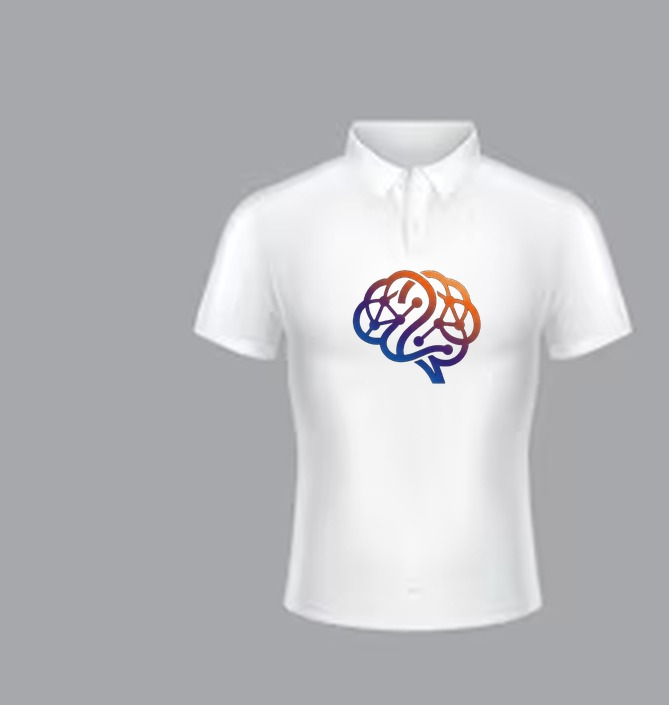
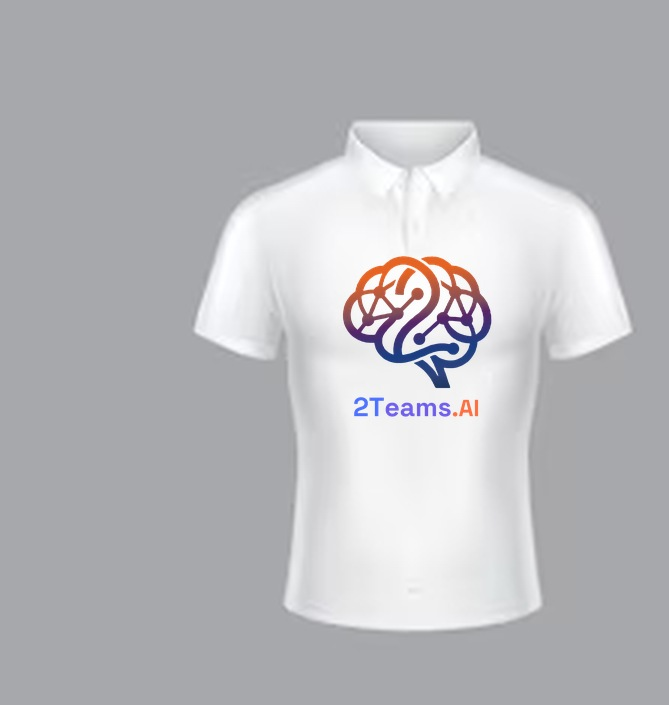
Fix apparel mockups and drop the Mockups pages from brand guidelines
- Front shirt/polo logos now show the full lockup (icon + wordmark)
  at 2x2in on the chest, not the icon alone — logos used for print
  should always carry the wordmark.
- Back shirt designs are recentered to the true center of the back
  instead of sitting high near the shoulders.
- Removes the "Mockups" section (image style + logo-in-context pages).

Changed region(s): [[0.5082, 0.3433, 0.7474, 0.5929]]

diff --git a/src/app/brand-guidelines/page.tsx b/src/app/brand-guidelines/page.tsx
@@ -386,64 +386,14 @@ export default function BrandGuidelinesPage() {
         <PageStamp section="Fonts" number="06" />
       </section>
 
-      {/* MOCKUPS — ESTILO FOTOGRÁFICO */}
-      <section id="mockups" className={styles.page}>
-        <div className={styles.pageInner}>
-          <h2 className={styles.runningTitle}>Mockups</h2>
-          <p className={styles.lead}>
-            El logo en contexto real: fotografía, no ilustración. La estética de marca es
-            tecnológica y fotográfica — circuitos, hardware, infraestructura real — nunca fondos
-            planos genéricos.
-          </p>
-
-          <h3 className={styles.subTitle}>Estilo de imagen</h3>
-          <div className={styles.styleRow}>
-            <div className={styles.styleTile}>
-              <Image
-                src="/brand-guidelines/style-circuit.jpg"
-                alt="Placa de circuitos — estilo de imagen de marca"
-                width={400}
-                height={300}
-                className={styles.styleImg}
-              />
-            </div>
-            <div className={styles.styleTile}>
-              <Image
-                src="/brand-guidelines/style-server.jpg"
-                alt="Centro de datos — estilo de imagen de marca"
-                width={400}
-                height={300}
-                className={styles.styleImg}
-              />
-            </div>
-          </div>
-          <p className={styles.caption}>
-            Fotografía real de hardware, circuitos e infraestructura — nunca renders genéricos de
-            stock ni íconos planos de “IA”.
-          </p>
-
-          <h3 className={styles.subTitle}>Logo en contexto</h3>
-          <div className={styles.heroMockup}>
-            <Image
-              src="/brand-guidelines/mockup-tech-bg.jpg"
-              alt="Logo de 2Teams.AI sobre una placa de circuitos"
-              width={900}
-              height={675}
-              className={styles.heroMockupImg}
-            />
-          </div>
-          <p className={styles.caption}>Logo en blanco sobre fotografía real de hardware.</p>
-        </div>
-        <PageStamp section="Mockups" number="07" />
-      </section>
-
       {/* POP — REMERAS Y POLOS */}
       <section id="pop" className={styles.page}>
         <div className={styles.pageInner}>
           <h2 className={styles.runningTitle}>POP — Indumentaria</h2>
           <p className={styles.lead}>
-            Frente: solo el ícono, 2×2 in, a un costado del pecho. Espalda: el isotipo completo con
-            el nombre, grande y centrado.
+            Para impresión, el logo siempre va acompañado del wordmark — nunca solo el ícono.
+            Frente: isotipo completo (ícono + wordmark), 2×2 in, a un costado del pecho. Espalda:
+            isotipo completo, grande, centrado en el medio de la espalda.
           </p>
 
           <h3 className={styles.subTitle}>Camisetas</h3>
@@ -451,42 +401,42 @@ export default function BrandGuidelinesPage() {
             <div className={styles.shirtMockup}>
               <Image
                 src="/brand-guidelines/mockup-white-shirt-front.jpg"
-                alt="Remera blanca, frente — ícono a color de 2Teams.AI al costado del pecho, 2x2 pulgadas"
+                alt="Remera blanca, frente — ícono y wordmark de 2Teams.AI al costado del pecho, 2x2 pulgadas"
                 width={765}
                 height={980}
                 className={styles.shirtPhoto}
               />
-              <p className={styles.caption}>Remera blanca — frente, ícono 2×2in al costado del pecho</p>
+              <p className={styles.caption}>Remera blanca — frente, isotipo 2×2in al costado del pecho</p>
             </div>
             <div className={styles.shirtMockup}>
               <Image
                 src="/brand-guidelines/mockup-white-shirt-back.jpg"
-                alt="Remera blanca, espalda — logo de 2Teams.AI a color con el nombre, grande y centrado"
+                alt="Remera blanca, espalda — isotipo de 2Teams.AI a color con el nombre, grande y centrado en el medio de la espalda"
                 width={766}
                 height={980}
                 className={styles.shirtPhoto}
               />
-              <p className={styles.caption}>Remera blanca — espalda, logo completo grande y centrado</p>
+              <p className={styles.caption}>Remera blanca — espalda, isotipo grande centrado en el medio</p>
             </div>
             <div className={styles.shirtMockup}>
               <Image
                 src="/brand-guidelines/mockup-black-shirt-front.jpg"
-                alt="Remera negra, frente — ícono en blanco de 2Teams.AI al costado del pecho, 2x2 pulgadas"
+                alt="Remera negra, frente — ícono y wordmark en blanco de 2Teams.AI al costado del pecho, 2x2 pulgadas"
                 width={583}
                 height={700}
                 className={styles.shirtPhoto}
               />
-              <p className={styles.caption}>Remera negra — frente, ícono 2×2in al costado del pecho</p>
+              <p className={styles.caption}>Remera negra — frente, isotipo 2×2in al costado del pecho</p>
             </div>
             <div className={styles.shirtMockup}>
               <Image
                 src="/brand-guidelines/mockup-black-shirt-back.jpg"
-                alt="Remera negra, espalda — logo de 2Teams.AI en blanco con el nombre, grande y centrado"
+                alt="Remera negra, espalda — isotipo de 2Teams.AI en blanco con el nombre, grande y centrado en el medio de la espalda"
                 width={584}
                 height={700}
                 className={styles.shirtPhoto}
               />
-              <p className={styles.caption}>Remera negra — espalda, logo completo grande y centrado</p>
+              <p className={styles.caption}>Remera negra — espalda, isotipo grande centrado en el medio</p>
             </div>
           </div>
 
@@ -495,26 +445,26 @@ export default function BrandGuidelinesPage() {
             <div className={styles.shirtMockup}>
               <Image
                 src="/brand-guidelines/mockup-white-polo.jpg"
-                alt="Polo blanco con el logo de 2Teams.AI a color"
+                alt="Polo blanco con el ícono y wordmark de 2Teams.AI a color"
                 width={669}
                 height={705}
                 className={styles.shirtPhoto}
               />
-              <p className={styles.caption}>Polo blanco — logo a color, centrado</p>
+              <p className={styles.caption}>Polo blanco — isotipo a color, centrado</p>
             </div>
             <div className={styles.shirtMockup}>
               <Image
                 src="/brand-guidelines/mockup-black-polo.jpg"
-                alt="Polo negro con el logo de 2Teams.AI en blanco"
+                alt="Polo negro con el ícono y wordmark de 2Teams.AI en blanco"
                 width={669}
                 height={705}
                 className={styles.shirtPhoto}
               />
-              <p className={styles.caption}>Polo negro — logo en blanco, centrado</p>
+              <p className={styles.caption}>Polo negro — isotipo en blanco, centrado</p>
             </div>
           </div>
         </div>
-        <PageStamp section="POP" number="08" />
+        <PageStamp section="POP" number="07" />
       </section>
 
       {/* USOS CORRECTOS / INCORRECTOS */}
@@ -594,7 +544,7 @@ export default function BrandGuidelinesPage() {
             </div>
           </div>
         </div>
-        <PageStamp section="Usos" number="09" />
+        <PageStamp section="Usos" number="08" />
       </section>
 
       {/* POP — APLICACIONES DIGITALES */}
@@ -662,7 +612,7 @@ export default function BrandGuidelinesPage() {
             </div>
           </div>
         </div>
-        <PageStamp section="Digital" number="10" />
+        <PageStamp section="Digital" number="09" />
       </section>
 
       {/* CONTRAPORTADA */}
